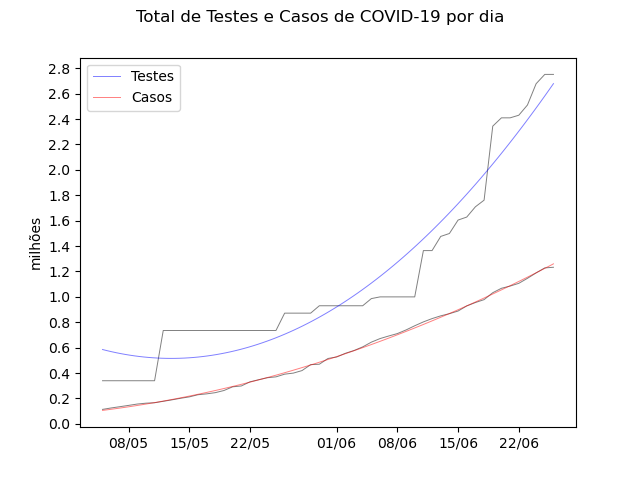
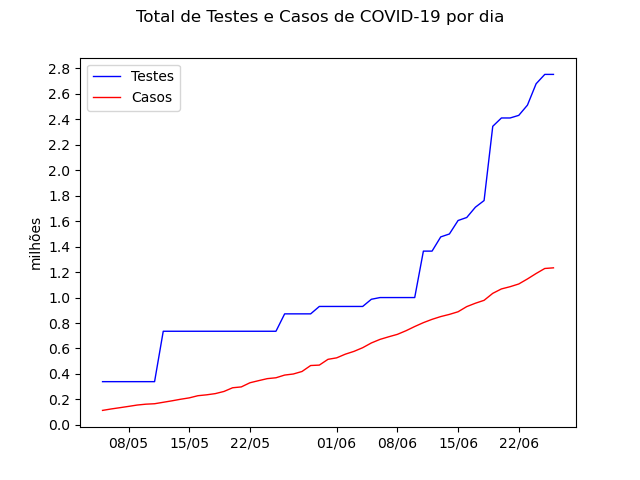
plot updates

diff --git a/plot.py b/plot.py
@@ -2,6 +2,7 @@ from datetime import datetime
 import numpy as np
 import matplotlib.pyplot as plt
 import matplotlib.dates as mdates
+from matplotlib.dates import date2num
 
 DATA_FILE = "data/clean_data.tsv"
 data = []
@@ -32,17 +33,18 @@ data = data[::-1]
 
 times = np.array([d.time.date() for d in data])
 cases = np.array([d.cases for d in data])
+deaths = np.array([d.deaths for d in data])
 tests = np.array([d.tests for d in data])
 t = np.linspace(times[0].toordinal(),times[-1].toordinal(),100)
 
 def lin_graph(output):
     plt.suptitle('Total de Testes e Casos de COVID-19 por dia')
-    fit_cases = np.poly1d(np.polyfit([t.toordinal() for t in times], cases/1000000.0, 2))
-    fit_tests = np.poly1d(np.polyfit([t.toordinal() for t in times], tests/1000000.0, 2))
-    plt.plot(times,tests/1000000.0, color='grey', linewidth=0.7)
-    plt.plot(t, fit_tests(t), label='Testes', color='blue', linewidth=0.7, alpha=0.5)
-    plt.plot(times,cases/1000000.0, color='grey', linewidth=0.7)
-    plt.plot(t, fit_cases(t), label='Casos', color='red', linewidth=0.7, alpha=0.5)
+    #fit_cases = np.poly1d(np.polyfit([t.toordinal() for t in times], cases/1000000.0, 2))
+    #fit_tests = np.poly1d(np.polyfit([t.toordinal() for t in times], tests/1000000.0, 2))
+    plt.plot(times,tests/1000000.0, label='Testes', color='blue', linewidth=1)
+    #plt.plot(t, fit_tests(t), label='Testes', color='blue', linewidth=0.7, alpha=0.5)
+    plt.plot(times,cases/1000000.0, label='Casos', color='red', linewidth=1)
+    #plt.plot(t, fit_cases(t), label='Casos', color='red', linewidth=0.7, alpha=0.5)
     plt.ylabel("milhões")
     plt.legend(loc="upper left")
     plt.axes().xaxis.set_major_formatter(mdates.DateFormatter("%d/%m"))
@@ -52,13 +54,13 @@ def lin_graph(output):
 
 def log_graph(output):
     plt.suptitle('Total de Testes e Casos de COVID-19 por dia, escala log')
-    fit_cases = np.poly1d(np.polyfit([t.toordinal() for t in times], np.log(cases), 2))
-    fit_tests = np.poly1d(np.polyfit([t.toordinal() for t in times], np.log(tests), 2))
-    plt.plot(times,np.log(tests), color='grey', linewidth=0.7)
-    plt.plot(t, fit_tests(t), label='Testes', color='blue', linewidth=0.7, alpha=0.5)
-    plt.plot(times,np.log(cases), color='grey', linewidth=0.7)
-    plt.plot(t, fit_cases(t), label='Casos', color='red', linewidth=0.7, alpha=0.5)
-    plt.ylabel("log(milhões)")
+    #fit_cases = np.poly1d(np.polyfit([t.toordinal() for t in times], np.log(cases), 2))
+    #fit_tests = np.poly1d(np.polyfit([t.toordinal() for t in times], np.log(tests), 2))
+    plt.plot(times,np.log(tests), label='Testes', color='blue', linewidth=1)
+    #plt.plot(t, fit_tests(t), label='Testes', color='blue', linewidth=0.7, alpha=0.5)
+    plt.plot(times,np.log(cases), label='Casos', color='red', linewidth=1)
+    #plt.plot(t, fit_cases(t), label='Casos', color='red', linewidth=0.7, alpha=0.5)
+    plt.ylabel("log()")
     plt.legend(loc="upper left")
     plt.axes().xaxis.set_major_formatter(mdates.DateFormatter("%d/%m"))
     plt.locator_params(axis='y', nbins=20)
@@ -81,31 +83,29 @@ def by_week(output):
     for i in range(len(tests_diff)):
         if i%7 == 0: week_tests.append(0)
         week_tests[-1] += tests_diff[i]/1000000.0
-    plt.bar(week_days,week_tests,6,color="blue",label="Testes")
-    plt.bar(week_days,week_cases,6,color="red",label="Casos",alpha=0.5)
+    plt.bar(date2num(week_days)-1.5,week_tests,3,color="blue",label="Testes")
+    plt.bar(date2num(week_days)+1.5,week_cases,3,color="red",label="Casos")
     plt.axes().xaxis.set_major_formatter(mdates.DateFormatter("%d/%m"))
     plt.ylabel("milhões")
+    plt.xticks(week_days)
     plt.legend(loc="upper left")
     plt.savefig(output)
     plt.close()
 
-def by_week_rel(output):
-    plt.suptitle('Casos/Testes de COVID-19 por semana')
-    week_cases = []
-    week_days = []
-    for i in range(len(cases_diff)):
-        if i%7 == 0:
-            week_cases.append(0)
-            week_days.append(times[i+1])
-        week_cases[-1] += cases_diff[i]
-    week_tests = []
-    for i in range(len(tests_diff)):
-        if i%7 == 0: week_tests.append(0)
-        week_tests[-1] += tests_diff[i]
-    week_rels = []
-    for case, test in zip(week_cases, week_tests):
-        week_rels.append(case/test)
-    plt.bar(week_days,week_rels,6,color="purple")
+def cases_by_tests(output, delay=0):
+    if (delay > 0):
+        plt.suptitle('Relação entre Casos e Testes (com atraso de '+str(delay)+' dias) de COVID-19 por dia')
+        plt.plot(times[delay:],cases[:-delay]/tests[delay:], linewidth=1)
+    else:
+        plt.suptitle('Relação entre Casos e Testes de COVID-19 por dia')
+        plt.plot(times,cases/tests, linewidth=1)
+    plt.axes().xaxis.set_major_formatter(mdates.DateFormatter("%d/%m"))
+    plt.savefig(output)
+    plt.close()
+
+def deaths_by_cases(output, delay):
+    plt.suptitle('Relação entre Mortes (com atraso de '+str(delay)+' dias) e Casos de COVID-19 por dia')
+    plt.plot(times[delay:],deaths[delay:]/cases[:-delay], linewidth=1)
     plt.axes().xaxis.set_major_formatter(mdates.DateFormatter("%d/%m"))
     plt.savefig(output)
     plt.close()
@@ -113,4 +113,6 @@ def by_week_rel(output):
 lin_graph("plot/linear.png")
 log_graph("plot/log.png")
 by_week("plot/week.png")
-by_week_rel("plot/week_rel.png")
+deaths_by_cases("plot/deaths_by_cases.png",20)
+cases_by_tests("plot/cases_by_tests0.png")
+cases_by_tests("plot/cases_by_tests7.png",7)
